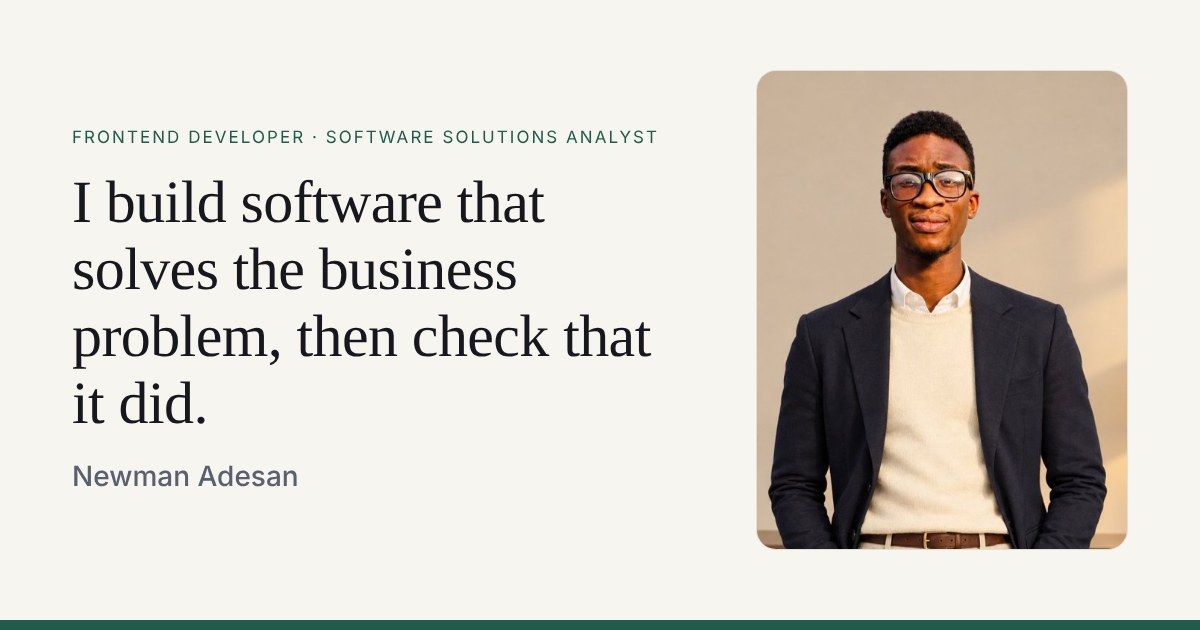
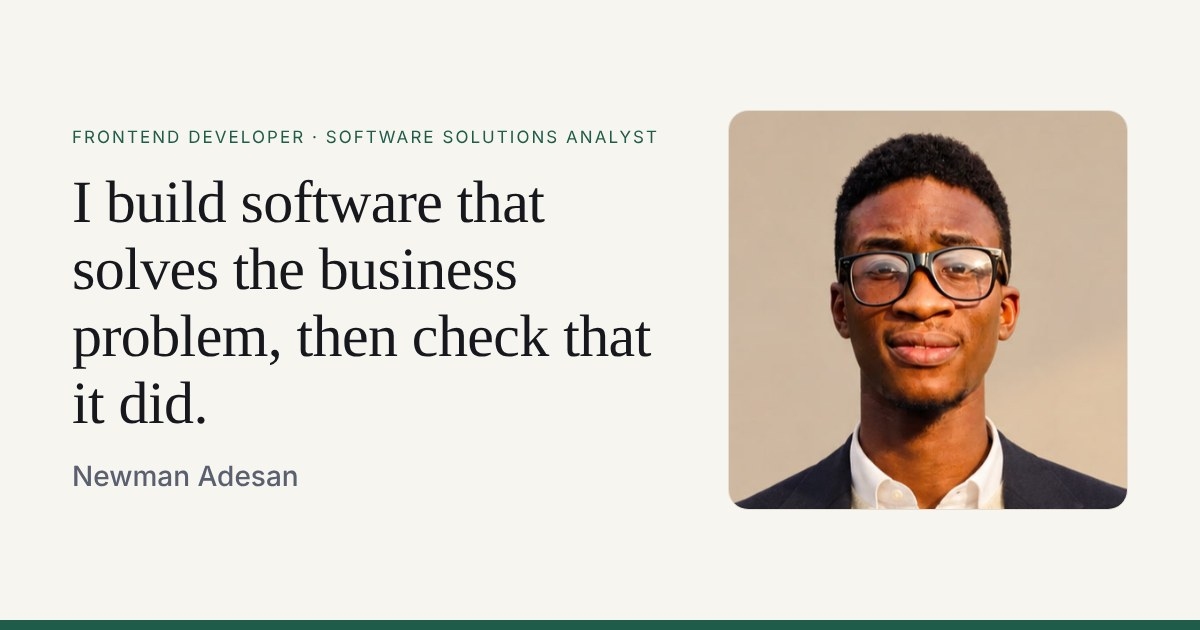
Headshot crop for the portrait and share card
Claude-Session: https://claude.ai/code/session_01MNNyvGFp1QnX6s2u318cz1

Changed region(s): [[0.5858, 0.0905, 0.9558, 0.8746]]

diff --git a/app/page.tsx b/app/page.tsx
@@ -29,8 +29,8 @@ export default function Home() {
         <Image
           src="/newman.jpg"
           alt={`Portrait of ${profile.name}`}
-          width={496}
-          height={640}
+          width={450}
+          height={450}
           priority
           className="mx-auto w-56 rounded-2xl border border-line object-cover sm:w-72"
         />
